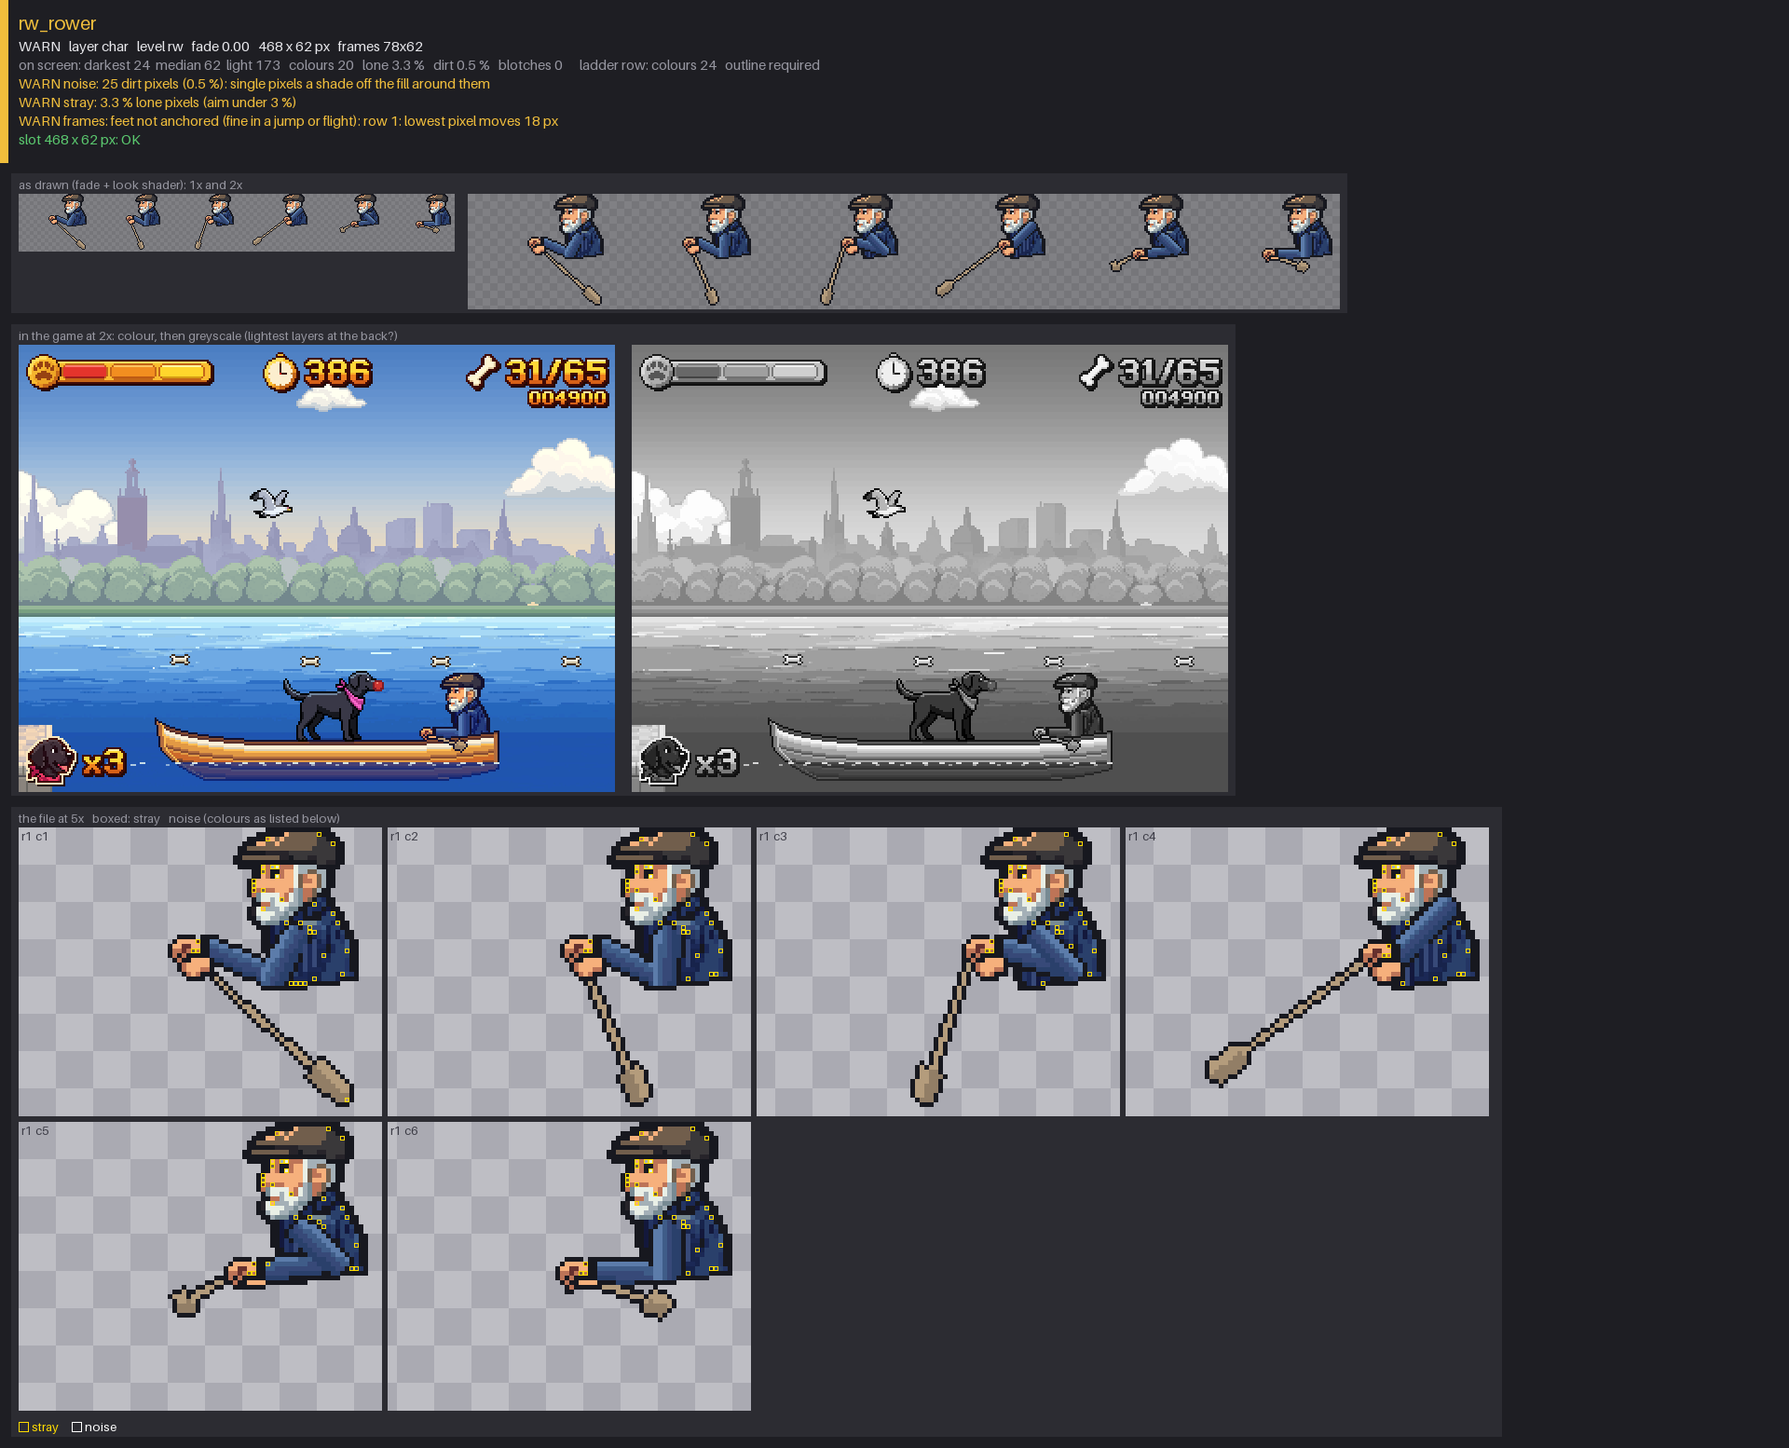
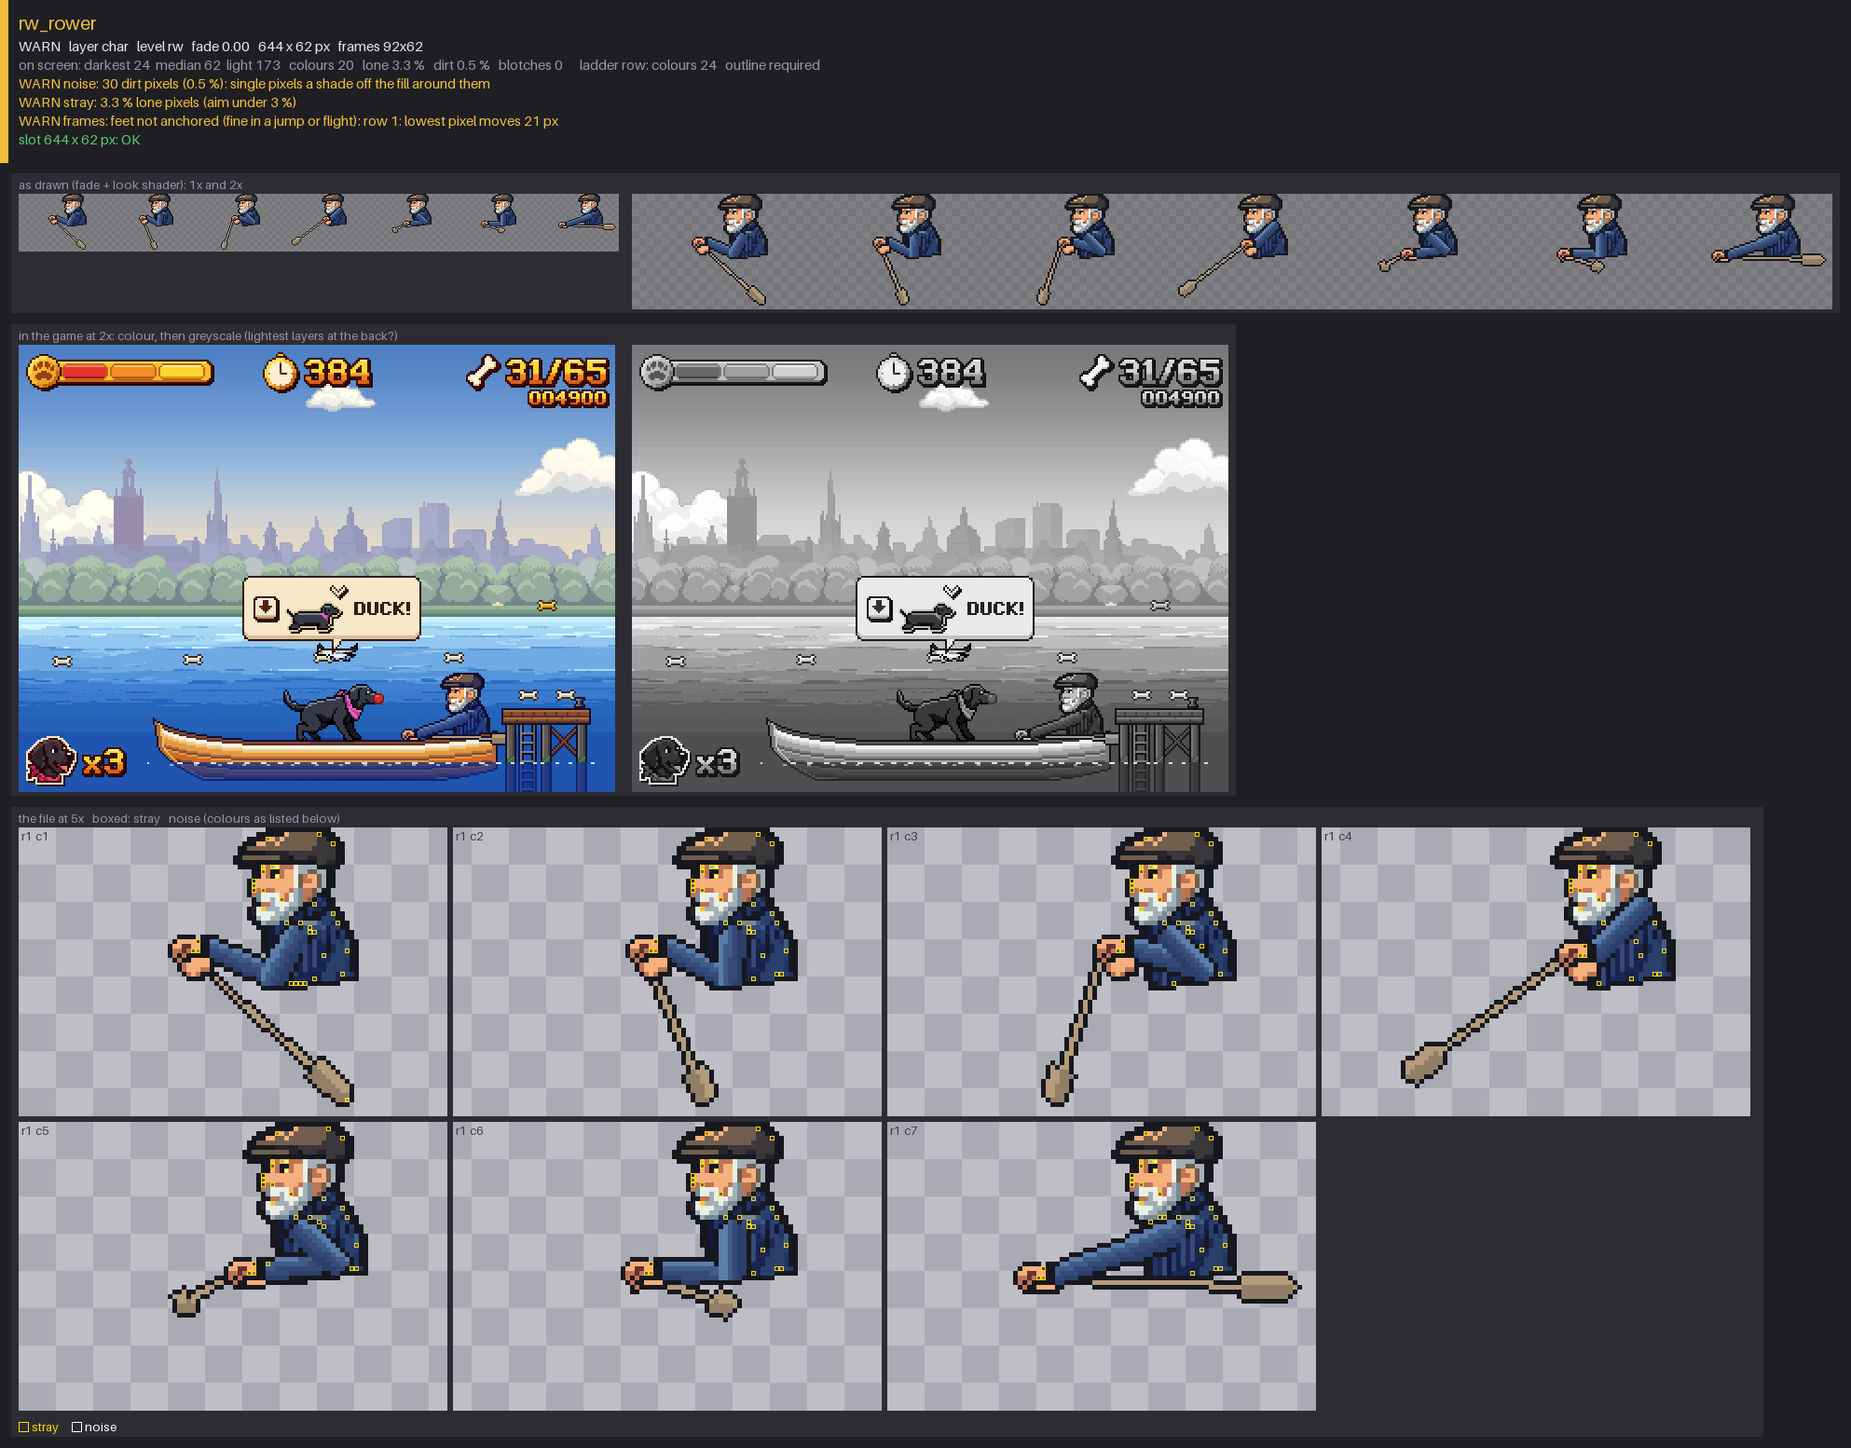
River Walk final review: rowers rest with the oar shipped, the jetty built as a landing stage, the ferry sits in the water
Claude-Session: https://claude.ai/code/session_01XkeHCjP6hqrE6SQGDYHeYV

diff --git a/tools/build_rw_jetty.py b/tools/build_rw_jetty.py
@@ -1,0 +1,93 @@
+#!/usr/bin/env python3
+"""build_rw_jetty.py: the River Walk jetty between the rowing boats (x 2496-2544, deck y 196), BUILT by rule
+(night of 6 Nov 2026, final review: "it still reads as a table in the water").
+
+  python3 -I tools/build_rw_jetty.py           write riverwalk/art/scene/rw_jetty.png (+ art/source/rw_jetty/rw_jetty.aseprite)
+  python3 -I tools/build_rw_jetty.py --check   fail if the file on disk is not what this script builds
+
+What a small landing stage has, front-on, 48 x 51 (row 0 = world y 189, the bottom row = y 239, the screen's foot):
+  * the deck (rows 6-14): one ink top row (y 195) under Pepper's feet (y 196), the plank tops' lit edge, the cross
+    planks' ends (a joint every 6 px), a shade line, the stringer beam, ink;
+  * an iron bollard on the deck's right end (x 39-44, rows 0-5) to moor the boats to;
+  * three timber piles (6 px: ink, lit, two mid, shade, ink) from the deck down past the screen, green weed for 3 rows
+    at the waterline (y 221-223); the water's tint below y 224 and the ripple are drawn in code (setpieces.lua);
+  * X bracing between the middle and the right pile (two 2 px boards), an iron ladder between the left and the
+    middle pile, from the deck down into the water (two rails, a rung every 5 px).
+One ink, outlined parts (it is an obstacle). Timber and iron from riverwalk.gpl. Drawn by setpieces.lua jetty() with
+its bottom row on world y 239."""
+import os, sys
+import numpy as np
+from PIL import Image
+sys.path.insert(0, os.path.dirname(os.path.abspath(__file__)))
+import aseprite_io
+
+hexc = lambda h: np.array([int(h[1:3], 16), int(h[3:5], 16), int(h[5:7], 16), 255], np.uint8)
+INK = hexc('#17181f')
+T_L, T_M, T_S = hexc('#a87046'), hexc('#805032'), hexc('#583626')               # deck timber
+P_L, P_M, P_S = hexc('#7c7870'), hexc('#5e5c4d'), hexc('#44423a')               # pile timber, weathered
+I_L, I_M, I_S = hexc('#7b8087'), hexc('#5b5b5b'), hexc('#373737')               # iron
+WEED_L, WEED = hexc('#568442'), hexc('#3f6540')
+W, H, Y0 = 48, 51, 189
+DECK = 195 - Y0                                                                 # the deck's ink top row (6)
+PILES = (2, 21, 40)
+
+
+def build():
+    a = np.zeros((H, W, 4), np.uint8)
+    def px(x, y, c):
+        if 0 <= x < W and 0 <= y < H: a[y, x] = c
+    # the piles, from under the deck to the bottom, weed at the waterline
+    for x0 in PILES:
+        for y in range(DECK + 9, H):
+            wy = y + Y0
+            cols = (INK, P_L, P_M, P_M, P_S, INK)
+            for i, c in enumerate(cols):
+                if 221 <= wy <= 223 and 0 < i < 5: c = WEED_L if (i + wy) % 3 == 0 else WEED
+                px(x0 + i, y, c)
+    # X bracing between the middle and the right pile (rows 17-30), 2 px boards with ink edges
+    def board(xa, ya, xb, yb):
+        n = max(abs(xb - xa), abs(yb - ya))
+        pts = [(round(xa + (xb - xa) * t / n), round(ya + (yb - ya) * t / n)) for t in range(n + 1)]
+        for x, y in pts:
+            for dy, c in ((-1, INK), (2, INK)):
+                if a[y + dy, x, 3] == 0 or tuple(a[y + dy, x]) == tuple(INK): px(x, y + dy, c)
+        for x, y in pts: px(x, y, T_M); px(x, y + 1, T_S)
+    board(27, 17, 39, 29); board(27, 29, 39, 17)
+    # the ladder between the left and the middle pile: two iron rails, a rung every 5 px, into the water
+    for y in range(DECK + 9, H):
+        for x, c in ((9, INK), (10, I_L), (11, INK), (16, INK), (17, I_M), (18, INK)):
+            px(x, y, c)
+    for y in range(DECK + 13, H - 1, 5):
+        for x in range(11, 17): px(x, y - 1, INK); px(x, y, I_L); px(x, y + 1, INK)   # a rung: ink, lit, ink
+        px(11, y, I_L); px(16, y, I_L)
+    # the deck (rows 6-14)
+    for x in range(W):
+        px(x, DECK, INK)
+        px(x, DECK + 1, T_L)                                          # the plank tops' lit edge
+        for y in (DECK + 2, DECK + 3): px(x, y, T_S if x % 6 == 5 else T_M)   # cross planks' ends, a joint every 6
+        px(x, DECK + 4, T_S)
+        px(x, DECK + 5, T_L if x % 16 else T_M)                      # the stringer: lit top, bolts every 16 px
+        px(x, DECK + 6, T_M); px(x, DECK + 7, T_S)
+        px(x, DECK + 8, INK)
+    for y in range(DECK, DECK + 9): px(0, y, INK); px(W - 1, y, INK)
+    for x in (8, 24, 40): px(x, DECK + 6, I_S)                        # bolt heads in the stringer
+    # the iron bollard on the deck's right end (x 39-44): a cap, a waisted neck, a foot plate on the deck
+    bol = ['kkkkkk', 'kLLMSk', '.kLSk.', '.kLSk.', 'kLMMSk', 'kkkkkk']
+    for j, row in enumerate(bol):
+        for i, ch in enumerate(row):
+            c = {'k': INK, 'L': I_L, 'M': I_M, 'S': I_S}.get(ch)
+            if c is not None: px(39 + i, j, c)
+    for x in range(W):                                                # the screen's foot: the piles and the ladder end
+        if a[H - 1, x, 3]: a[H - 1, x] = INK                          # on an ink row (under the water's tint)
+    return a
+
+
+if __name__ == '__main__':
+    out = 'riverwalk/art/scene/rw_jetty.png'
+    a = build()
+    if '--check' in sys.argv:
+        ok = os.path.exists(out) and np.array_equal(np.array(Image.open(out).convert('RGBA')), a)
+        print('CHECK PASS' if ok else 'CHECK FAIL: ' + out); sys.exit(0 if ok else 1)
+    Image.fromarray(a).save(out)
+    os.makedirs('art/source/rw_jetty', exist_ok=True); aseprite_io.write('art/source/rw_jetty/rw_jetty.aseprite', [a])
+    print('rw_jetty.png', W, 'x', H, 'colours', len({tuple(p) for p in a.reshape(-1, 4) if p[3]}))

diff --git a/tools/build_rw_rowboat.py b/tools/build_rw_rowboat.py
@@ -28,8 +28,9 @@ Design target: art/gen/concepts/rw_rowboat_concept_b.png (Artlist, reference onl
         to wrist (upper arm 9 px, forearm 15 px, a two-bone reach, the elbow always bent down) in the sleeve's own
         three colours and a highlight row. He sits on the stern thwart (rowlock hull x 150), so the deck amidships,
         where Pepper stands, is clear of him; everything of his is cut at the rail of its own column.
-  LOOP  6 frames keyed by rule (riverwalk/art/scene/rw_rower.png, 6 x 78 x 62 on hull x 106-183): catch, drive, drive,
-        finish, return, return (the blade tipped 7 degrees on the return: clear of the water). He leans 2 px forward at the catch and 1 px back at the finish; the fists sit on the handle in every
+  LOOP  6 frames keyed by rule (riverwalk/art/scene/rw_rower.png, 7 x 92 x 62 on hull x 106-197): catch, drive, drive,
+        finish, return, return (the blade tipped 7 degrees on the return: clear of the water), and frame 7, the rest
+        pose: the oar shipped along the hull, blade past the transom, clear of the water. He leans 2 px forward at the catch and 1 px back at the finish; the fists sit on the handle in every
         frame and the arm joins them to the shoulder.
 Lines (frame row = world y - 176, hull x = frame x): rail top amidships row 36 (world 212 = Pepper's deck, the
 mover's top), waterline row 48 (world 224), keel row 57. The water tint below row 48, the ripples, the wake and the
@@ -271,8 +272,11 @@ LOOP = [  # phi (fore-aft, + = blade aft/right), beta (tip: blade down), lean (p
     (-36, 24, 1),    # finish: hands at his chest, blade comes out
     (-12, 7, 0),     # return: hands low, blade lifted clear of the water (fix round 1: was 12, the blade sat on
     (20, 7, -1),     # return                                              the waterline and looked dragged)
-]
-FX0, FW = ROWLOCK[0] - 44, 78  # the loop frame on the hull: hull x 106-183, rows as the hull (world y 176-237)
+    (65, 2, 0),      # rest (frame 7, final review): the oar shipped along the hull, the loom from his fists over
+]                    # the rowlock, the blade out past the transom and clear of the water, full length (it was a
+                     # 12 px stub on the return pose: "a man holding a spoon", 28 % of the time)
+FX0, FW = ROWLOCK[0] - 44, 92  # the loop frame on the hull: hull x 106-197 (the shipped blade reaches past the
+                               # transom), rows as the hull (world y 176-237)
 
 
 def limb(mask, p0, p1, rad):

diff --git a/tools/asset_qa.py b/tools/asset_qa.py
@@ -54,7 +54,7 @@ LADDER = {
 FRAMES = {
     "pepper": (60, 52), "girl": (66, 66), "cat": (48, 48), "goose": (34, 34), "gull": (26, 26),
     "park_keeper_cart": (82, 82), "park_keeper_winch": (80, 80), "rowboat": (70, 70), "mia_throw": (66, 66),
-    "rw_rower": (78, 62),                                        # (night/06nov-rw) the rowing loop, 6 frames (setpieces.lua)
+    "rw_rower": (92, 62),                                        # (night/06nov-rw) the rowing loop, 6 frames (setpieces.lua)
     "magpie": (32, 26),                                          # (6 Nov) perch, flick, wings up, level, down
     "town_spring": (9, 10), "town_jet": (10, 72),                  # (art/dt-roofs-06nov, tools/build_dt_details.py)
     "tram_vintage_wheel": (31, 31),                                  # (6 Nov) 4 frames of the tram's wheel
@@ -81,7 +81,7 @@ TILES = {"rail_bg_left", "rail_bg_unit", "rail_bg_end", "pavement", "road", "par
 JOINS = {"cp_walk704_deck": "left", "cp_walk1968_deck": "left", "cp_walk704_landing608": "right", "cp_walk1968_landing1888": "right"}
 # slots (docs/art_hooks_r8.md): width, height, tolerance on each (0 = exact). Batch 1 files are named differently
 # from their hooks: HOOK says which game file each one becomes
-SLOTS = {"rw_rowboat": (185, 62, 0, 0), "rw_rower": (468, 62, 0, 0), "kennel": (44, 44, 0, 0),   # (night/06nov-rw) 4.0 m eka; 6 x 78 x 62 loop; true-scale kennel
+SLOTS = {"rw_rowboat": (185, 62, 0, 0), "rw_rower": (644, 62, 0, 0), "kennel": (44, 44, 0, 0), "rw_jetty": (48, 51, 0, 0),   # (night/06nov-rw) 4.0 m eka; 7 x 92 x 62 loop; kennel; built jetty
          "cargobike": (96, 76, 0, 0), "cargobike_pedal": (768, 76, 0, 0), "mia_throw": (528, 66, 0, 0),
          "cyclist_a_84": (76, 76, 8, 8), "cyclist_b_84": (76, 76, 8, 8), "cyclist_a_92": (76, 76, 8, 8), "cyclist_b_92": (76, 76, 8, 8),
          "roof_gable": (122, 80, 0, 20), "roof_loggia": (122, 48, 0, 12), "roof_gallery88": (90, 32, 0, 8),

diff --git a/CHANGELOG.md b/CHANGELOG.md
@@ -15,6 +15,7 @@ Each delivered build is a git tag. `git checkout v0.1` goes back to any of them.
 - **The pontoon (base audit: "mooring rope taut 1 px, no waterline"):** its floats take the water's tint below the surface (`Sp.pontoonWater`, called by stage.lua right after the pontoon is drawn); the two mooring lines hang 2 px at the middle when pulled out and up to 6 px as the pontoon comes close and they slacken (`hline` with a sag, no gaps on the steep ends).
 - **The road band (base audit item 1):** already rebuilt by the merged art/rw-ground-06nov (flat asphalt, a gutter and the kerb's shadow, flecks on a fixed grid, dashes; asset_qa WARN only for its 2 px flecks). Not darkened to the front row's median 40: it is the traffic lane on the ground layer, not the front band (question for the owner in the README).
 - **Review folder `docs/review/06nov-night/rw/`:** README (numbers, checks, the owner's questions), cards (rw_rowboat PASS, rw_rower WARN, kennel PASS), before/after pairs in colour and grey, the harbour ride from the autopilot (GIF), the size sheets. Pipeline: rw_rowboat and kennel (tier C, built) and rw_rower (tier A) are at review; specs `art/gen/jobs/rw_rowboat.json` (now tier C, built) and `kennel.json`.
+- **Final gate review (origin/prod/integrate-f merged in):** the rowers rest with the oar shipped (a 7th frame, full length, blade past the transom and clear of the water; was a 12 px stub, "a man holding a spoon"); the jetty BUILT by `tools/build_rw_jetty.py` as a small landing stage (plank deck, stringer, bollard, piles with weed, X bracing, an iron ladder into the water; asset_qa PASS), drawn from the screen's foot with the water's tint and ripples; the ferry sits in the water (`wet = true`, `Sp.drawWetProps`: tint under y 224 and a ripple row, ferry.png unchanged). pier_v2 untouched. Checks green.
 - **Round 2:** the front band's clipped hedges take the plain back-light rim on their top (look.lua: the random warm rim pixels read as orange specks on the hedge's even top; the random draw is kept so other front pieces are unchanged). The pier at x 1920 checked at 3x: it stands on its stone arch and jambs on the quay, no navy band, nothing see-through (`docs/review/06nov-night/rw/frames/round2_pier_x1920.png`).
 - **Fix round 1 (independent review at 4709eeb, 0 credits):** the near arm is two bones of 9 + 15 px with the elbow always bent down and a highlight row on the sleeve (it was a straight stick in 5 of 6 frames); the blade tipped 7 degrees on the return so it clears the water (and at rest); the planks under the honey top strake one step to red-brown mahogany (concept b) and the oar grey-brown ash, so it reads against the hull; the bow's sheer from runs that only shorten towards the stem, and each plank seam its own curve fanning into the stem (no aligned terraces); the rower moved to the stern thwart (rowlock hull x 150, his parts cut at the rail of their own column), so Pepper's spot amidships is clear of him, the deck box and route unchanged (the autopilot rides at box + 60 and jumps over him onto the far quay; golden trace re-recorded); the road one palette step darker (make_road.py, asphalt 74, 78, 86); the pontoon's timber mooring pile tinted under the surface; the three concept PNGs committed. Checks: PEPPER UNCHANGED, River Walk --physics 55/55, tall levels green, Tiled, flow, backdrop, curve T1-T4 PASS.
 - **Rower job (rw_rower, 0 credits until the producer runs it):** the only drawn part of the new rowing boat. Seated grandpa facing left (concept b: flat cap, white beard, navy knit jumper), 31 x 43 px at 46 px/m (seat to cap 0.92 m, head 11 px, cap top level with Pepper's head on the deck), hands forward at chest height, no oar. GPT 2.5 Sunburst 1K on a 256 frame (4 px grid), the concept crop as reference (`art/gen/upload/rw_rower_concept_crop.png`), 2 variants, 48 credits. The hull and oars are built by rule and the arms re-keyed per frame.

diff --git a/docs/art_hooks_r8.md b/docs/art_hooks_r8.md
@@ -150,9 +150,10 @@ what it drew before (the code fallback stays).
 | File | Size | Where and how it is drawn |
 | --- | --- | --- |
 | `rw_rowboat.png` | 185 x 62 | the ROWBOAT hull (setpieces.lua `Sp.drawRowboat`), built by `tools/build_rw_rowboat.py`: bow left; its left column at the mover's x0 - 25, its top row at the mover's y0 - 36 (row 36 = the rail = Pepper's deck, y 212; row 48 = the waterline, y 224). Outlined (an obstacle). The water's tint under row 48 is drawn in code |
-| `rw_rower.png` | 468 x 62 (6 frames of 78 x 62) | the rower (at the stern thwart, rowlock hull x 150), the oar and his near arm, drawn over the hull at hull x 106, same top; frame k while the boat moves right (7 fps), backwards while it moves left, frame 5 at rest. Nothing below the rail of its own column except the oar (it is outboard) |
+| `rw_rower.png` | 644 x 62 (7 frames of 92 x 62) | the rower (at the stern thwart, rowlock hull x 150), the oar and his near arm, drawn over the hull at hull x 106, same top; frames 1-6 the stroke while the boat moves right (7 fps), backwards while it moves left, frame 7 at rest (the oar shipped along the hull). Nothing below the rail of its own column except the oar (it is outboard) |
 | `kennel.png` | 44 x 44 | the KENNEL piece (setpieces.lua kennel()), built by `tools/build_rw_kennel.py`: top-left at (x0, y0) = (0, 140), bottom row on the path (y 183); the doorway's crown on row 25 (y 165). Outlined. Its collision: the ridge cap x 16-28 from y 140 and the eaves x 0-44 from y 158 |
-| `rw_jetty.png` (unchanged) | 48 x 41 | the jetty: in code its piles run on to the bottom of the screen and take the water's tint and a ripple at y 224 |
+| `rw_jetty.png` | 48 x 51 | the jetty, built by `tools/build_rw_jetty.py`: its bottom row on world y 239 (the deck's ink row on y 195, the box top 196), x on the JETTY piece's x0; the water's tint under y 224 and a ripple round each pile in code |
+| `ferry.png` (unchanged) | 252 x 79 | the BOAT prop has `wet = true`: setpieces.lua tints its columns under y 224 and runs a ripple row along it |
 | `pontoon.png` (unchanged) | 54 x 19 | in code its floats take the water's tint under y 224 (`Sp.pontoonWater`); its mooring lines sag |
 
 ## City Park (tall), night 6 Nov (cp track)

diff --git a/docs/review/06nov-night/rw/README.md b/docs/review/06nov-night/rw/README.md
@@ -80,3 +80,19 @@ Arm with an elbow and a highlight row; the blade lifted on the return and at res
 the oar ash; the bow's seams as separate smooth curves; the rower at the stern, Pepper's spot clear; the road one
 step darker; the mooring pile wet; the concept PNGs committed. Frames: `frames/after_ride_boat1_right.png`,
 `after_jetty_boat1_back_left.png` (boat 1 rowing back left on its own), `after_ride_boat2_right.png`, the GIF.
+
+## 7 Final gate review (integration f merged in)
+
+- **Rest pose:** a 7th frame, the oar shipped along the hull: the loom from his fists over the rowlock, the blade
+  out past the transom and clear of the water, full length (phi 65, beta 2). The boats show it while they wait at
+  each end (it was the return pose, a 12 px stub). `frames/final_rest_oar_shipped.png`. The loop is 7 x 92 x 62.
+- **Jetty:** rebuilt by rule, `tools/build_rw_jetty.py --check` (48 x 51, bottom on the screen's foot): a plank deck
+  with a stringer and bolts, an iron bollard, timber piles with weed at the waterline, X bracing, an iron ladder
+  into the water; tinted and rippled under y 224 in code. asset_qa PASS, `cards/PASS_rw_jetty.png`,
+  `frames/final_jetty_x2400.png`.
+- **Ferry:** `wet = true` on the BOAT prop: setpieces.lua `Sp.drawWetProps` tints ferry.png's columns under y 224 and
+  runs a ripple row along it; ferry.png's pixels are unchanged. `frames/final_ferry_x1600.png`.
+- **Pier at x 1930-2070:** the owner-approved pier_v2. Its pixels are untouched; it stands on the stone arch and jambs
+  under its plinth (art/rw-ground-06nov), `frames/round2_pier_x1920.png`.
+- Checks after the merge: PEPPER UNCHANGED (3908 steps, lab 1401), River Walk --physics 55/55, City Park tall 97/97,
+  Downtown tall 102/102, Tiled PASSED, flow 125/125 (own save folder), backdrop OK, curve T1-T4 PASS.
